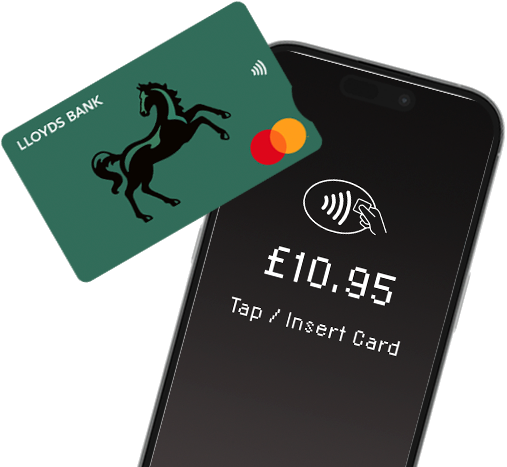
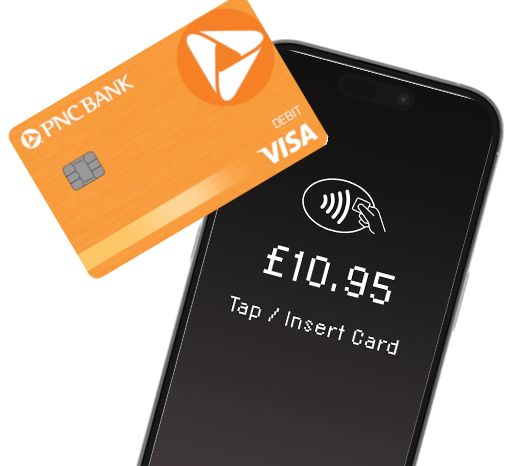
update images

diff --git a/src/app/data.ts b/src/app/data.ts
@@ -4,15 +4,15 @@ import { ReaderInfo } from "@/components/readers";
 
 export const defaultAccountInfo = {
   account_id: "",
-  business_name: "PNC Merchant Services",
+  business_name: "Pittsburg Dental",
 };
 
 export const accountInfo: AccountInfoProps[] = [
   {
-    name: "Business Account",
+    name: "Business Checking Account",
     balance: 25117.27,
     available: 3517.27,
-    account_number: "000123456789",
+    account_number: "000123456788",
     routing_number: "043000096",
   },
   {
@@ -52,7 +52,7 @@ export const readerInfo: ReaderInfo[] = [
   },
   {
     title: "Tap to Pay",
-    image: "/lloyds_ttp.png",
+    image: "/pnc_ttp.png",
     height: 200,
     width: 200,
     description:
@@ -88,6 +88,7 @@ const person: CreateAccountProps["person"] = {
   address: {
     line1: "address_full_match",
     city: "Pittsburgh",
+    state: "PA",
     country: "US",
     postal_code: "15222",
   },
@@ -98,6 +99,7 @@ const person: CreateAccountProps["person"] = {
   },
   email: "olivia@pnc.com",
   phone: "+1-800-762-2265",
+  id_number: "000000000",
   relationship: {
     director: true,
     executive: true,
@@ -122,6 +124,7 @@ export const onboardingTypes: { name: string; kyc: CreateAccountProps }[] = [
           address: {
             line1: "address_full_match",
             city: "Pittsburgh",
+            state: "PA",
             country: "US",
             postal_code: "15222",
           },
@@ -160,6 +163,7 @@ export const onboardingTypes: { name: string; kyc: CreateAccountProps }[] = [
           address: {
             line1: "address_full_match",
             city: "Pittsburgh",
+            state: "PA",
             country: "US",
             postal_code: "15222",
           },

diff --git a/src/api/create_test_data.ts b/src/api/create_test_data.ts
@@ -129,16 +129,15 @@ const createPayouts = async (account_id: string) => {
 };
 
 const setBranding = async (account_id: string) => {
-  // const filePath = path.join(process.cwd(), "public/black_horse_feed_logo.png");
-  // const fp = await fs.readFile(filePath);
+ 
   let req = await fetch(
-    "https://lloyds-demo.vercel.app/black_horse_feed_logo.png"
+    "https://lloyds-demo.vercel.app/tooth_logo.png"
   );
   let fp = Buffer.from(await req.arrayBuffer());
   let upload = await stripe.files.create({
     file: {
       data: fp,
-      name: "black_horse_feed_logo.jpg",
+      name: "tooth_logo.jpg",
       type: "application.octet-stream",
     },
     purpose: "business_logo",
@@ -154,12 +153,12 @@ const setBranding = async (account_id: string) => {
   });
 
   // Create S700 Screen
-  req = await fetch("https://lloyds-demo.vercel.app/lbg-s700-green.png");
+  req = await fetch("https://lloyds-demo.vercel.app/pnc-s700-splash.png");
   fp = Buffer.from(await req.arrayBuffer());
   upload = await stripe.files.create({
     file: {
       data: fp,
-      name: "lbg-s700-green.png",
+      name: "pnc-s700-splash.png",
       type: "application.octet-stream",
     },
     purpose: "terminal_reader_splashscreen",

diff --git a/src/components/accountInfo.tsx b/src/components/accountInfo.tsx
@@ -24,7 +24,7 @@ const AccountInfo = (props: AccountInfoProps) => {
             {props.name.toUpperCase()}
           </span>
           <span className="text-sm text-gray-500">Routing: {props.routing_number}</span>
-          <span className="text-sm text-gray-500">Accounting: {props.account_number}</span>
+          <span className="text-sm text-gray-500">Account: {props.account_number}</span>
         </div>
         <div className="flex flex-row px-2 items-center">
           <span className="text-xl font-extralight text-black">

diff --git a/src/components/header.tsx b/src/components/header.tsx
@@ -12,7 +12,7 @@ const Header = () => {
   const dashboard = pathname.includes("dashboard");
 
   return (
-    <div className="w-full h-16 flex flex-row bg-pnc-blue justify-between px-6">
+    <div className="w-full h-16 flex flex-row bg-pnc-light-gray justify-between px-6">
       <div className="flex flex-row">
         <a className="flex flex-row justify-center" href="/">
           <Image src={"/logo.png"} height={200} width={150} alt="pnc logo" />

diff --git a/src/components/startPaymentsCTA.tsx b/src/components/startPaymentsCTA.tsx
@@ -11,7 +11,7 @@ const StartPaymentsCTA = () => {
         width={props.width}
         alt={props.title}
       /> */}
-              <Image src="/lloyds_ttp.png" height={200} width={150} alt="PNC TTP" />
+              <Image src="/pnc_ttp.png" height={200} width={150} alt="PNC TTP" />
 
         <div className="flex flex-col p-4 gap-2 md:px-16">
           <span className="text-pnc-blue font-semibold text-xl text-center">

diff --git a/src/app/marketing/page.tsx b/src/app/marketing/page.tsx
@@ -86,7 +86,7 @@ const Marketing = () => {
             const style =
               "rounded-xl border-[3px] flex flex-col p-2 justify-between gap-2 " +
               (cta.glow
-                ? "border-pnc-dark-blue bg-pnc-blue text-white cursor-pointer"
+                ? "border-pnc-dark-gray bg-pnc-orange text-white cursor-pointer"
                 : "border-gray-500");
             return (
               <div

diff --git a/src/components/footer.tsx b/src/components/footer.tsx
@@ -11,7 +11,7 @@ const links = [
 
 const Footer = () => {
   return (
-    <div className="w-full h-16 flex flex-row bg-pnc-blue bottom-0 fixed items-center px-3">
+    <div className="w-full h-16 flex flex-row bg-pnc-dark-gray bottom-0 fixed items-center px-3">
       <div className="flex flex-row justify-between">
         {links.map((link) => (
           <span className="text-white ml-6" key={link}>

diff --git a/src/components/input.tsx b/src/components/input.tsx
@@ -6,8 +6,8 @@ import CurrencyInput from "./currencyInput";
 
 export interface InputProps {
   title: string;
-  type: "text" | "currency";
-  placeholder: string;
+  type: "text" | "currency" | "number";
+  placeholder?: string;
   value?: string;
   setValue: (value: string) => void;
   valid: boolean;

diff --git a/tailwind.config.ts b/tailwind.config.ts
@@ -18,6 +18,8 @@ const config: Config = {
         "pnc-light-blue": "#0077B5",
         "pnc-orange": "#FF6600",
         "pnc-dark-blue": "#002D62",
+        "pnc-light-gray": "#414e58",
+        "pnc-dark-gray": "#2d3943",
       },
       fontFamily: {
         sans: ["Nunito Sans", "sans-serif"],
